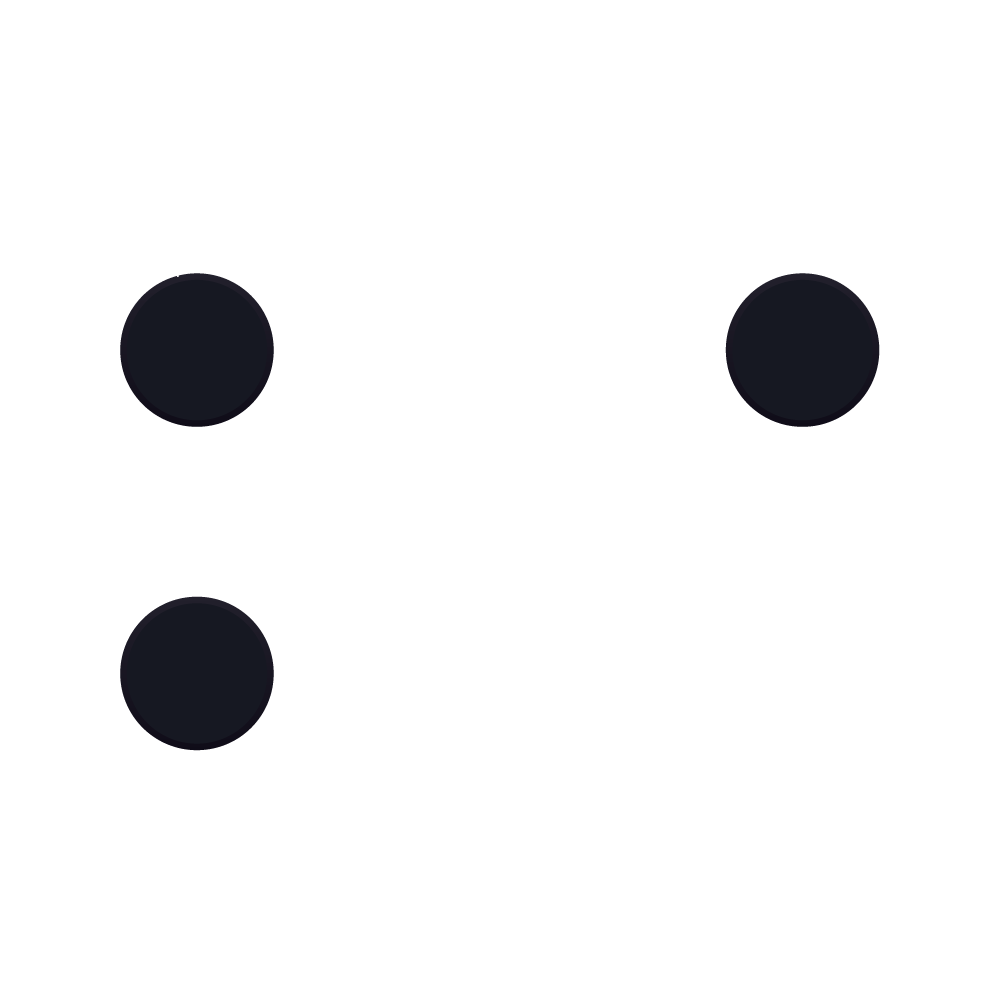
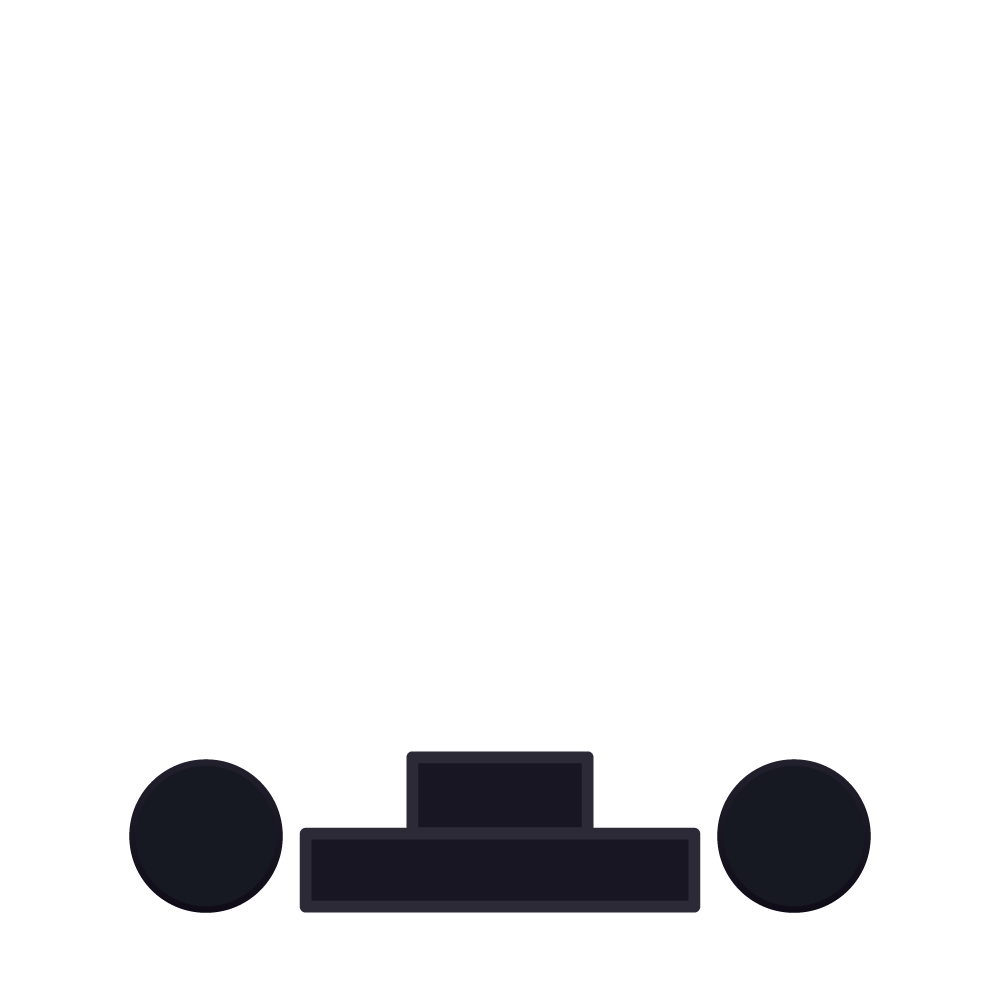
newScale

Changed region(s): [[0.093, 0.589, 0.868, 0.93], [0.713, 0.248, 0.899, 0.434], [0.093, 0.248, 0.279, 0.434]]

diff --git a/main.qml b/main.qml
@@ -20,8 +20,14 @@ Window {
     }
     /////////// from -90 to 90 //////////
     Image {
+        id:mainfont
+        x:-200; y:-560
+        source:"mainfont.png"
+    }
+    Image {
         id:scale
-        x:-100; y:-160;
+        //x:-100; y:-160;
+        x:-200; y:-560;
         source:"scale.png"
         Connections {
             target: comport
@@ -43,33 +49,61 @@ Window {
         }
     }
     Image {
+        id:ampllefthand
+        x:-200; y:-560
+        source:"ampllefthand.png"
+        RotationAnimator {
+             target: ampllefthand;
+             from: 0.0;
+             to: 35.0;
+             duration: 5000
+             running: true
+        }
+    }
+    Image {
+        id:amplrighthand
+        x:-200; y:-560
+        source:"amplrighthand.png"
+        RotationAnimator {
+             target: amplrighthand;
+             from: 0.0;
+             to: -20.0;
+             duration: 5000
+             running: true
+        }
+    }
+    Image {
         id:handle
-        x:-100; y:-160
+        x:-200; y:-560
         source:"handle.png"
     }
     Image {
-        id:roll
-        x:-100; y:-160
-        source:"roll.png"
-    }
-    Image {
         id:indicators
-        x:-100; y:-160
+        x:-100; y:-360
         source:"indicators.png"
     }
     Text {
             id: textRoll
-            x: 355; y:210;
+            x: 345; y:420;
             text: comport.msg
-            style: Text.Raised; styleColor: "#22202c"
+            style: Text.Raised
             font.family: batavia.name
-            font.pixelSize:42;
+            font.pixelSize:50;
             //color: "steelblue"
             color: "#ffff00"
         }
     Text {
+            id: angle
+            x: 450; y:402;
+            text: "°"
+            style: Text.Raised
+            font.family: batavia.name
+            font.pixelSize:55;
+            color: "#ffff00"
+        }
+    Text {
             id: textAmpl
-            x: 60; y:170;
+            x: 660; y:450;
             text: "12°"
             style: Text.Raised; styleColor: "#22202c"
             font.family: batavia.name
@@ -79,7 +113,7 @@ Window {
         }
     Text {
             id: textPer
-            x: 60; y:490;
+            x: 60; y:450;
             text: "17s"
             style: Text.Raised; styleColor: "#22202c"
             font.family: batavia.name
